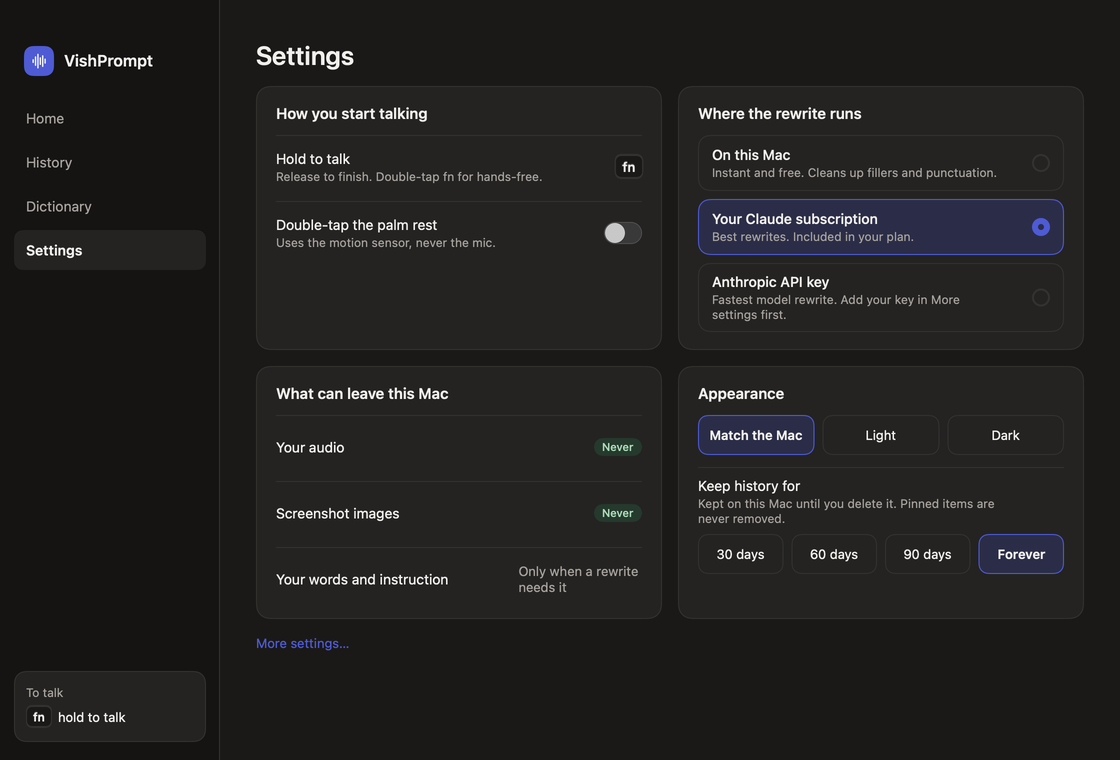
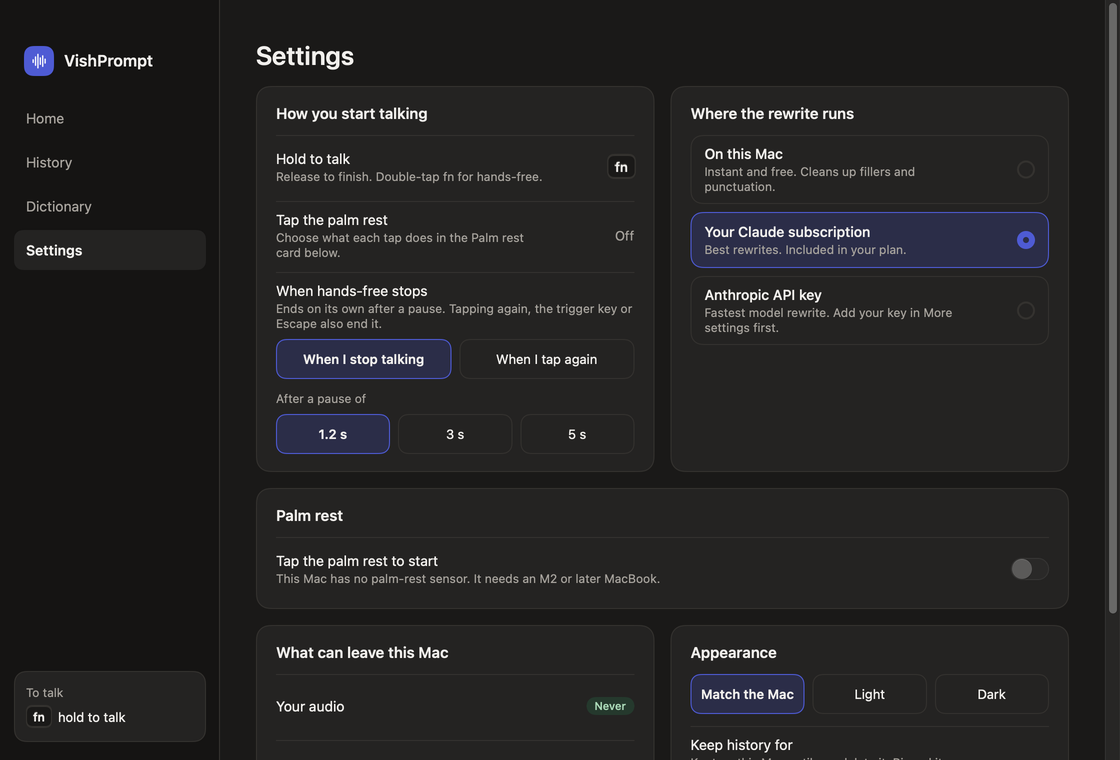
feat: choose how a hands-free session ends
Settings → How you start talking → "When hands-free stops": When I
stop talking (the silence timeout, after a pause of 1.2 s as before,
3 s or 5 s) or When I tap again (no silence stop; it ends on the stop
gesture, the trigger key, Escape, or the five-minute ceiling). It
applies to the fn double-tap and the palm-rest gestures alike, is read
at each key-down, and the capsule says which way this session ends.
Nothing about audio leaving the Mac changes.

diff --git a/VishPromptTests/HandsFreeStopTests.swift b/VishPromptTests/HandsFreeStopTests.swift
@@ -1,0 +1,112 @@
+import XCTest
+@testable import VishPrompt
+
+/// A hands-free session ends the way Settings says: after a pause of the chosen length, or only
+/// when you tap again, whatever started it. The five-minute ceiling holds either way.
+final class HandsFreeStopTests: XCTestCase {
+    private func settings() -> HandsFreeSettings {
+        HandsFreeSettings(defaults: UserDefaults(suiteName: "HandsFreeStopTests-\(UUID())")!)
+    }
+
+    func testTheDefaultIsWhatTheAppAlwaysDid() {
+        let s = settings()
+        XCTAssertEqual(s.mode, .whenIStopTalking)
+        XCTAssertEqual(s.pause, .short)
+        XCTAssertEqual(s.silenceLimit, 1.2)
+    }
+
+    func testChoicesAreSavedAndTapAgainHasNoSilenceStop() {
+        let defaults = UserDefaults(suiteName: "HandsFreeStopTests-\(UUID())")!
+        let s = HandsFreeSettings(defaults: defaults)
+        s.pause = .long
+        XCTAssertEqual(HandsFreeSettings(defaults: defaults).silenceLimit, 5)
+        s.mode = .whenITapAgain
+        XCTAssertNil(HandsFreeSettings(defaults: defaults).silenceLimit, "no silence stop at all")
+        s.mode = .whenIStopTalking
+        XCTAssertEqual(HandsFreeSettings(defaults: defaults).pause, .long, "the pause is remembered across a switch")
+        XCTAssertEqual(HandsFreePause.allCases.map(\.title), ["1.2 s", "3 s", "5 s"])
+        XCTAssertEqual(HandsFreeStopMode.allCases.map(\.title), ["When I stop talking", "When I tap again"])
+    }
+
+    func testThePauseLengthIsHonoured() {
+        XCTAssertFalse(HandsFreeSettings.shouldStop(locked: true, silenceSeconds: 1.1, limit: 1.2))
+        XCTAssertTrue(HandsFreeSettings.shouldStop(locked: true, silenceSeconds: 1.2, limit: 1.2))
+        XCTAssertFalse(HandsFreeSettings.shouldStop(locked: true, silenceSeconds: 2.9, limit: 3))
+        XCTAssertTrue(HandsFreeSettings.shouldStop(locked: true, silenceSeconds: 5.1, limit: 5))
+        XCTAssertFalse(HandsFreeSettings.shouldStop(locked: true, silenceSeconds: 60, limit: nil), "tap again: a minute of quiet changes nothing")
+        XCTAssertFalse(HandsFreeSettings.shouldStop(locked: false, silenceSeconds: 10, limit: 1.2), "a held key never stops for silence")
+    }
+
+    // MARK: Both modes, from each start
+
+    private func fnDoubleTap(_ g: inout HotkeyGesture) {
+        _ = g.handle(.triggerDown(at: 0, modifiers: .none))
+        _ = g.handle(.triggerUp(at: 0.1, modifiers: .none))
+        _ = g.handle(.triggerDown(at: 0.3, modifiers: .none))
+        XCTAssertEqual(g.handle(.triggerUp(at: 0.4, modifiers: .none)), .lockedOn)
+    }
+
+    func testWhenIStopTalkingEndsOnSilenceFromEitherStart() {
+        var fromKey = HotkeyGesture()
+        fnDoubleTap(&fromKey)
+        XCTAssertEqual(fromKey.handle(.silenceTimeout), .finishCapture(modifiers: .none, locked: true))
+        var fromTap = HotkeyGesture()
+        _ = fromTap.chassisTap(at: 1)
+        XCTAssertEqual(fromTap.handle(.silenceTimeout), .finishCapture(modifiers: .none, locked: true))
+    }
+
+    func testWhenITapAgainEndsOnlyOnATapTheTriggerOrEscape() {
+        // In this mode the controller never sends silenceTimeout; each of these still ends it.
+        var byTap = HotkeyGesture()
+        _ = byTap.chassisTap(at: 1)
+        XCTAssertEqual(byTap.chassisTap(at: 40), [.finishCapture(modifiers: .none, locked: true)])
+
+        var byKey = HotkeyGesture()
+        _ = byKey.chassisTap(at: 1)
+        _ = byKey.handle(.triggerDown(at: 40, modifiers: .none))
+        XCTAssertEqual(byKey.handle(.triggerUp(at: 40.1, modifiers: .none)), .finishCapture(modifiers: .none, locked: true))
+
+        var byEscape = HotkeyGesture()
+        fnDoubleTap(&byEscape)
+        XCTAssertEqual(byEscape.handle(.escape), .discardCapture(reason: .escape))
+
+        var byTapAfterKeyStart = HotkeyGesture()
+        fnDoubleTap(&byTapAfterKeyStart)
+        XCTAssertEqual(byTapAfterKeyStart.chassisTap(at: 40), [.finishCapture(modifiers: .none, locked: true)])
+    }
+
+    func testTheCeilingStillEndsATapAgainSession() {
+        var fromTap = HotkeyGesture()
+        _ = fromTap.chassisTap(at: 1)
+        XCTAssertEqual(fromTap.handle(.holdTimeout(at: 301)), .finishCapture(modifiers: .none, locked: true), "a forgotten session cannot record forever")
+        XCTAssertFalse(fromTap.isRecording)
+        var fromKey = HotkeyGesture()
+        fnDoubleTap(&fromKey)
+        XCTAssertEqual(fromKey.handle(.holdTimeout(at: 301)), .finishCapture(modifiers: .none, locked: true))
+    }
+
+    // MARK: The capsule says how it ends
+
+    func testTheCapsuleSaysHowThisSessionEnds() throws {
+        let listening = HUDState.listening(level: 0.3, seconds: 2, locked: true)
+        func status(tap: Bool, pause: Bool) throws -> String {
+            try XCTUnwrap(CapsuleModel.make(listening, context: HUDContext(triggerName: "fn", startedByTap: tap, stopsOnPause: pause))).status
+        }
+        XCTAssertEqual(try status(tap: true, pause: false), "Started by a tap · double-tap again to stop · esc")
+        XCTAssertEqual(try status(tap: true, pause: true), "Started by a tap · stops when you pause · esc")
+        XCTAssertEqual(try status(tap: false, pause: false), "Hands-free · tap fn to stop · esc")
+        XCTAssertEqual(try status(tap: false, pause: true), "Hands-free · stops when you pause · esc")
+    }
+
+    @MainActor
+    func testTheSettingsCardDrivesTheRealSetting() {
+        let defaults = UserDefaults(suiteName: "HandsFreeStopTests-\(UUID())")!
+        let library = HomeLibrary(queue: { nil }, defaults: defaults)
+        XCTAssertEqual(library.handsFreeStopMode, .whenIStopTalking)
+        library.handsFreeStopMode = .whenITapAgain
+        library.handsFreePause = .medium
+        XCTAssertNil(HandsFreeSettings(defaults: defaults).silenceLimit)
+        XCTAssertEqual(HandsFreeSettings(defaults: defaults).pause, .medium)
+        XCTAssertEqual(HomeLibrary(queue: { nil }, defaults: defaults).handsFreeStopMode, .whenITapAgain, "read back on the next open")
+    }
+}

diff --git a/VishPrompt/Core/Hotkey/HandsFreeStop.swift b/VishPrompt/Core/Hotkey/HandsFreeStop.swift
@@ -1,0 +1,76 @@
+import Foundation
+
+/// How a hands-free session ends, whether the fn double-tap or a palm-rest gesture started it.
+/// Vish: "Can we also add a customization where the user can choose whether it just stops right
+/// after they stop talking or they have to double tap it again".
+enum HandsFreeStopMode: String, CaseIterable, Identifiable, Sendable {
+    /// The silence timeout ends it, after `HandsFreeSettings.pause`.
+    case whenIStopTalking
+    /// No silence stop at all: it ends on the stop gesture, the trigger key, Escape, or the
+    /// five-minute ceiling.
+    case whenITapAgain
+
+    var id: String { rawValue }
+
+    var title: String {
+        switch self {
+        case .whenIStopTalking: "When I stop talking"
+        case .whenITapAgain: "When I tap again"
+        }
+    }
+
+    var note: String {
+        switch self {
+        case .whenIStopTalking: "Ends on its own after a pause. Tapping again, the trigger key or Escape also end it."
+        case .whenITapAgain: "Keeps listening through pauses until you tap again, press the trigger key, or press Escape. Never longer than five minutes."
+        }
+    }
+}
+
+/// A pause length for "When I stop talking". 1.2 s is what the app always did.
+enum HandsFreePause: Double, CaseIterable, Identifiable, Sendable {
+    case short = 1.2
+    case medium = 3
+    case long = 5
+
+    var id: Double { rawValue }
+
+    var title: String {
+        switch self {
+        case .short: "1.2 s"
+        case .medium: "3 s"
+        case .long: "5 s"
+        }
+    }
+}
+
+struct HandsFreeSettings: @unchecked Sendable {
+    static let modeKey = "handsFreeStopMode"
+    static let pauseKey = "handsFreePause"
+    private let defaults: UserDefaults
+
+    init(defaults: UserDefaults = .standard) {
+        self.defaults = defaults
+    }
+
+    var mode: HandsFreeStopMode {
+        get { defaults.string(forKey: Self.modeKey).flatMap(HandsFreeStopMode.init(rawValue:)) ?? .whenIStopTalking }
+        nonmutating set { defaults.set(newValue.rawValue, forKey: Self.modeKey) }
+    }
+
+    var pause: HandsFreePause {
+        get { HandsFreePause(rawValue: defaults.double(forKey: Self.pauseKey)) ?? .short }
+        nonmutating set { defaults.set(newValue.rawValue, forKey: Self.pauseKey) }
+    }
+
+    /// Seconds of silence that end a hands-free session, or nil when only a tap does.
+    var silenceLimit: TimeInterval? {
+        mode == .whenIStopTalking ? pause.rawValue : nil
+    }
+
+    /// Whether the room has been quiet long enough to stop. Pure, so both modes are tested.
+    static func shouldStop(locked: Bool, silenceSeconds: TimeInterval, limit: TimeInterval?) -> Bool {
+        guard locked, let limit else { return false }
+        return silenceSeconds >= limit
+    }
+}

diff --git a/VishPrompt/Core/Pipeline/DictationController.swift b/VishPrompt/Core/Pipeline/DictationController.swift
@@ -118,8 +118,10 @@ final class DictationController {
         var historyResult: SmartPasteResult { result.showing(asCopied: showingAsCopied) }
     }
 
-    /// How long hands-free recording tolerates silence before stopping on its own.
-    private let silenceStopAfter: TimeInterval = 1.2
+    /// How long hands-free recording tolerates silence before stopping on its own, or nil when
+    /// only a tap, the trigger or Escape ends it. Read at each key-down from Settings → How
+    /// you start talking, so a change applies to the next session, not one in progress.
+    @ObservationIgnored private var silenceLimit: TimeInterval? = 1.2
 
     /// A hold longer than this finishes the dictation by itself.
     ///
@@ -391,12 +393,14 @@ final class DictationController {
         capturedContext = frontmost
         listeningApp = NSWorkspace.shared.frontmostApplication?.localizedName
         isScreenshotFix = false
+        silenceLimit = HandsFreeSettings().silenceLimit
         hudContext = HUDContext(
             mode: .dictate,
             app: listeningApp,
             takeSeconds: nil,
             triggerName: currentTrigger.displayName,
             startedByTap: monitor.startedByTap,
+            stopsOnPause: silenceLimit != nil,
             notch: NotchGeometry.pointerScreen.flatMap(NotchGeometry.layout(for:))
         )
         // Open the API connection while the user talks, if a rewrite may go there. Detached:
@@ -1329,7 +1333,7 @@ final class DictationController {
                     app: self.listeningApp
                 )
                 // Hands-free stops itself once the room goes quiet.
-                if locked, self.capture.silenceSeconds >= self.silenceStopAfter {
+                if HandsFreeSettings.shouldStop(locked: locked, silenceSeconds: self.capture.silenceSeconds, limit: self.silenceLimit) {
                     self.monitor.reportSilenceTimeout()
                 }
                 // A key-up that never arrives would otherwise record forever. Escape cannot

diff --git a/VishPrompt/UI/HUD/CapsuleModel.swift b/VishPrompt/UI/HUD/CapsuleModel.swift
@@ -10,6 +10,8 @@ struct HUDContext: Equatable, Sendable {
     var triggerName: String = "fn"
     /// The recording was started by a double tap on the palm rest.
     var startedByTap = false
+    /// Whether a hands-free session ends on its own after a pause, or only on a tap.
+    var stopsOnPause = true
     /// Set on a notched built-in display: the capsule splits into lobes beside the housing.
     var notch: NotchLayout?
 }
@@ -95,9 +97,12 @@ struct CapsuleModel: Equatable, Sendable {
         case let .listening(level, seconds, locked, partial, mode, app):
             let status: String
             if locked {
-                status = context.startedByTap
-                    ? "Started by a tap · double-tap again to stop · esc"
-                    : "Hands-free · tap \(context.triggerName) to stop · esc"
+                // Says how this session ends, as set in Settings → How you start talking.
+                let how = context.startedByTap ? "Started by a tap" : "Hands-free"
+                let stop = context.stopsOnPause
+                    ? "stops when you pause"
+                    : (context.startedByTap ? "double-tap again to stop" : "tap \(context.triggerName) to stop")
+                status = "\(how) · \(stop) · esc"
             } else {
                 switch mode {
                 case .paste: status = "say how, or just release · esc"

diff --git a/VishPrompt/UI/Home/HomeLibrary.swift b/VishPrompt/UI/Home/HomeLibrary.swift
@@ -94,6 +94,15 @@ final class HomeLibrary {
     }
     @ObservationIgnored var onSetPalmRest: (Bool) -> Void = { _ in }
 
+    /// How a hands-free session ends, and after how long a pause. Read by the controller at the
+    /// next key-down, so no wiring is needed.
+    var handsFreeStopMode: HandsFreeStopMode {
+        didSet { HandsFreeSettings(defaults: defaults).mode = handsFreeStopMode }
+    }
+    var handsFreePause: HandsFreePause {
+        didSet { HandsFreeSettings(defaults: defaults).pause = handsFreePause }
+    }
+
     /// Shown on Home once, after a saved trigger had to be replaced at launch.
     var triggerNote: String?
     @ObservationIgnored var onDismissTriggerNote: () -> Void = {}
@@ -300,6 +309,8 @@ final class HomeLibrary {
         self.defaults = defaults
         appearance = AppearanceChoice.saved(in: defaults)
         palmSensitivity = PalmSensitivity.saved(in: defaults)
+        handsFreeStopMode = HandsFreeSettings(defaults: defaults).mode
+        handsFreePause = HandsFreeSettings(defaults: defaults).pause
         sideCalibration = SideCalibration.saved(in: defaults)
         providerPolicy = ProviderSettings(defaults: defaults).policy()
     }

diff --git a/VishPrompt/UI/Home/SettingsCards.swift b/VishPrompt/UI/Home/SettingsCards.swift
@@ -53,6 +53,16 @@ struct SettingsPageView: View {
             } trailing: {
                 Text(library.palmRestEnabled ? "On" : "Off").font(.system(size: 13)).foregroundStyle(theme.muted.color)
             }
+            VStack(alignment: .leading, spacing: 8) {
+                RowText(title: "When hands-free stops", note: library.handsFreeStopMode.note)
+                ChoiceRow(options: HandsFreeStopMode.allCases, selection: $library.handsFreeStopMode, title: \.title)
+                if library.handsFreeStopMode == .whenIStopTalking {
+                    Text("After a pause of").font(.system(size: 12)).foregroundStyle(theme.muted.color).padding(.top, 4)
+                    ChoiceRow(options: HandsFreePause.allCases, selection: $library.handsFreePause, title: \.title)
+                }
+            }
+            .padding(.top, 10)
+            .overlay(alignment: .top) { theme.line.color.frame(height: 1) }
         }
     }
 

diff --git a/VishPromptTests/ChassisTapGestureTests.swift b/VishPromptTests/ChassisTapGestureTests.swift
@@ -67,9 +67,9 @@ final class ChassisTapGestureTests: XCTestCase {
     func testTheCapsuleSaysATapStartedItAndHowToStop() throws {
         let state = HUDState.listening(level: 0.3, seconds: 2, locked: true)
         let tap = try XCTUnwrap(CapsuleModel.make(state, context: HUDContext(triggerName: "fn", startedByTap: true)))
-        XCTAssertEqual(tap.status, "Started by a tap · double-tap again to stop · esc")
+        XCTAssertEqual(tap.status, "Started by a tap · stops when you pause · esc")
         let key = try XCTUnwrap(CapsuleModel.make(state, context: HUDContext(triggerName: "fn")))
-        XCTAssertEqual(key.status, "Hands-free · tap fn to stop · esc")
+        XCTAssertEqual(key.status, "Hands-free · stops when you pause · esc")
     }
 
     // MARK: When the sensor is sampled

diff --git a/VishPromptTests/HUDCapsuleTests.swift b/VishPromptTests/HUDCapsuleTests.swift
@@ -21,7 +21,7 @@ final class HUDCapsuleTests: XCTestCase {
 
     func testHandsFreeNamesTheKey() throws {
         let model = try XCTUnwrap(CapsuleModel.make(.listening(level: 0, seconds: 3, locked: true), context: slack))
-        XCTAssertEqual(model.status, "Hands-free · tap fn to stop · esc")
+        XCTAssertEqual(model.status, "Hands-free · stops when you pause · esc")
     }
 
     func testPasteAndEditSayWhatToSay() throws {

diff --git a/PROGRESS.md b/PROGRESS.md
@@ -487,3 +487,21 @@ for fn and ordinary keys; a key right after the trigger, with Right Command at a
 silently; fn keeps dictating; hands-free typing is left alone; fn+V still works; the hint copy.
 Evidence: `make test` — `Executed 581 tests, with 22 tests skipped and 0 failures`; `make release` — `** BUILD SUCCEEDED **`.
 
+## 2026-10-25 — Claude (hands-free stop: when I stop talking, or when I tap again)
+
+Vish, using the palm-rest tap: "it stops when I stop talking… Can we also add a customization
+where the user can choose whether it just stops right after they stop talking or they have to
+double tap it again". Settings → How you start talking → "When hands-free stops":
+- When I stop talking: the silence timeout ends it after a pause of 1.2 s (what the app always
+  did, and the default), 3 s or 5 s.
+- When I tap again: no silence stop at all. It ends on the stop gesture, the trigger key, Escape,
+  or the five-minute ceiling, which already ends a locked session through the gesture machine.
+It applies to every hands-free start (the fn double-tap and the palm-rest gestures), is read at
+each key-down, and the capsule says which: "stops when you pause" or "double-tap again to stop" /
+"tap fn to stop". Nothing about audio leaving the Mac changes.
+
+Evidence: `make test-class C=HandsFreeStopTests` — passed (8 tests): the default; saving; the pause
+length honoured at 1.2, 3 and 5 s and never in tap-again mode; both modes end from each start; the
+ceiling ends a tap-again session; the four capsule statuses; the card drives the setting.
+Evidence: `make test` — `Executed 589 tests, with 22 tests skipped and 0 failures`; `make release` — `** BUILD SUCCEEDED **`.
+

diff --git a/PLAN.md b/PLAN.md
@@ -92,6 +92,7 @@ Tick one only when its VERIFY passes, not when someone says it is done.
 - [x] Gestures 2: left and right unlock only when a calibration run separates this Mac's sides at 95% or better; an inseparable run keeps the one either-side row and says why — `make test-class C=SideCalibrationTests`
 - [x] Gestures 3: the Palm rest card (gesture rows, sensitivity, a Test area that lights up the gesture it heard) renders in light and dark — `make test-class C=PalmRestCardTests`
 - [x] Trigger safety: the shortcut modifiers (Left Command, Left Option, both Controls, both Shifts) are refused as the trigger with the reason, a saved one is replaced by fn with a note, a key right after the trigger passes through as a shortcut, and fn+V still works — `make test-class C=TriggerSafetyTests`
+- [x] Hands-free stop: a hands-free session ends after a pause of 1.2, 3 or 5 s, or only when you tap again, whatever started it; the capsule says which; the five-minute ceiling holds in both modes — `make test-class C=HandsFreeStopTests`
 
 ## Later
 

diff --git a/TASKS.md b/TASKS.md
@@ -28,3 +28,4 @@
 | 12 | Palm-rest gestures: side calibration gate | Claude | `make test-class C=SideCalibrationTests` |
 | 13 | Palm-rest gestures: the Palm rest card and Test area | Claude | `make test-class C=PalmRestCardTests` |
 | 14 | Trigger safety: shortcut modifiers refused, shortcuts pass through, overlap audit | Claude | `make test-class C=TriggerSafetyTests` |
+| 15 | Hands-free stop: when I stop talking (pause length) or when I tap again | Claude | `make test-class C=HandsFreeStopTests` |
